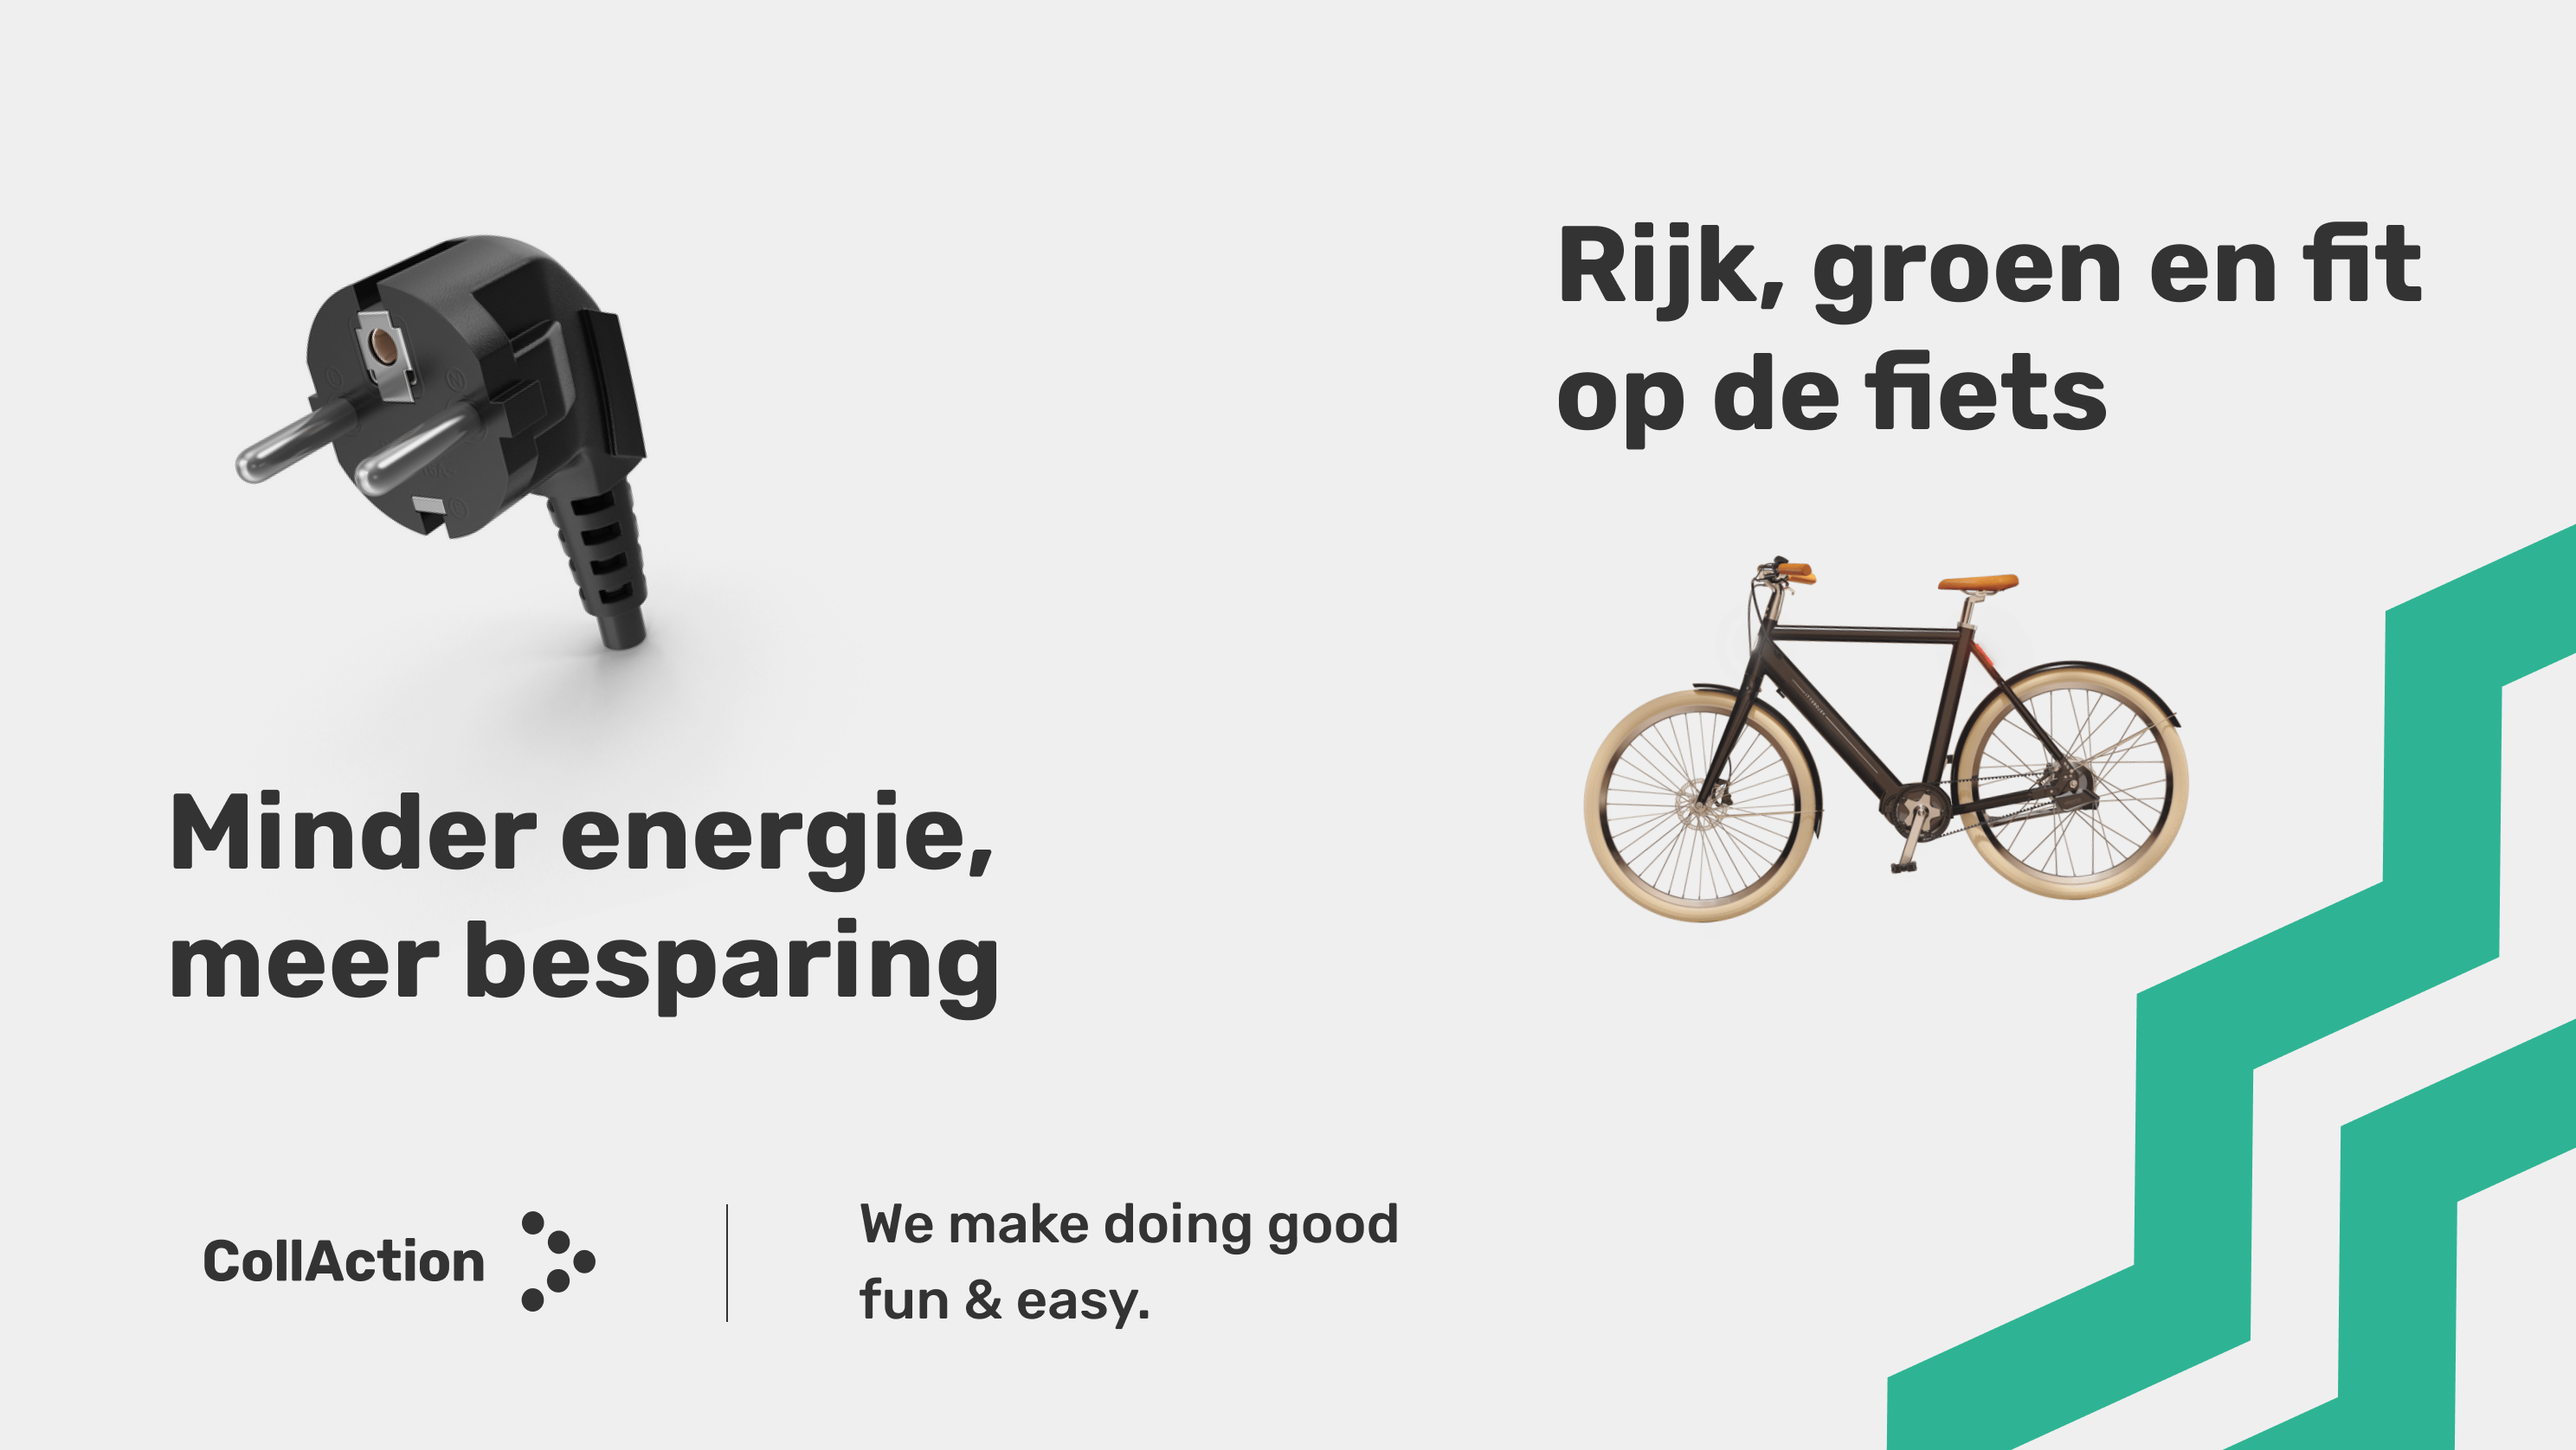
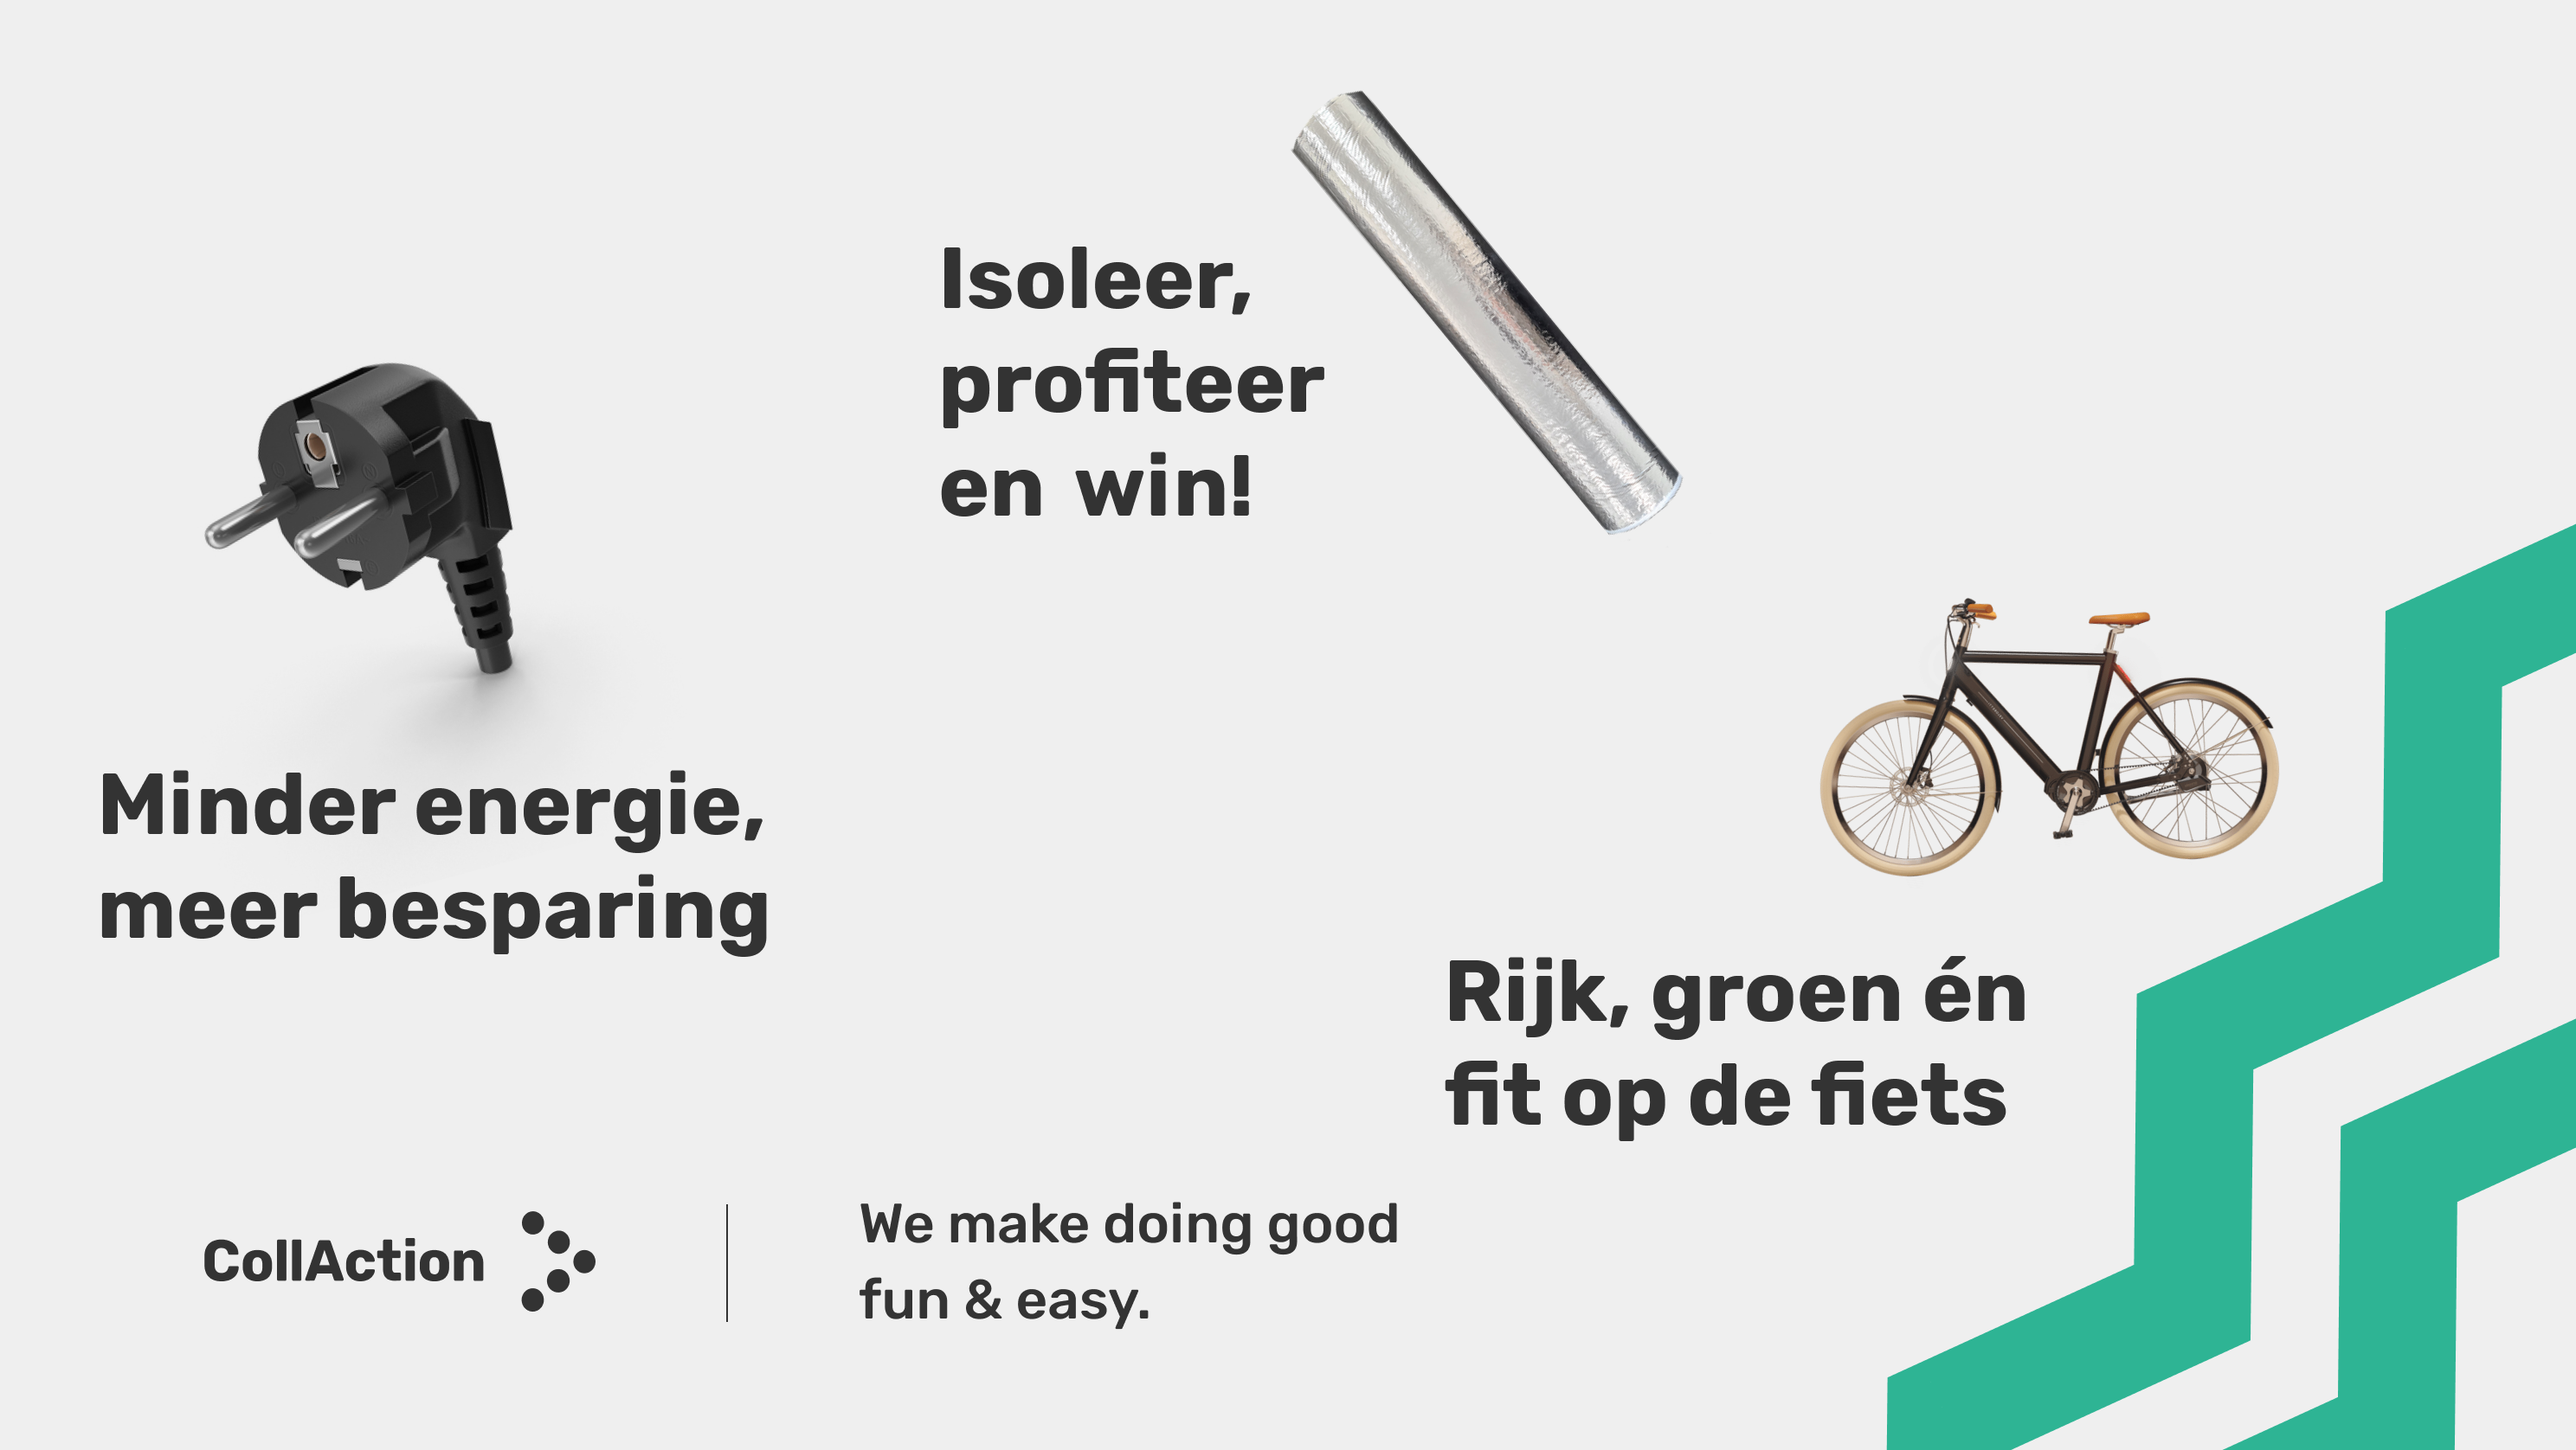
changes Tom westland

diff --git a/src/pages/westland/index.tsx b/src/pages/westland/index.tsx
@@ -5,6 +5,7 @@ import InfoCard from 'src/components/InfoCard';
 import AppLinkApple from 'src/components/AppLinkApple';
 import AppLinkGoogle from 'src/components/AppLinkGoogle';
 
+import Winactie from 'public/westland_winactie.png';
 import TomTomImg from 'public/actions/tomtom.png';
 import WestlandBanner from 'public/WestlandGroenDoen2.png';
 import WestlandBanner2 from 'public/westland.png';
@@ -49,6 +50,19 @@ export default function WestlandIndexPage() {
           />
         </div>
 
+        <div className="relative block w-full md:w-11/12 lg:w-208 mx-auto mt-8">
+          <InfoCard
+            isSecondaryBg
+            title="Download de app"
+            body="Samen staan we sterk! Moedig je buren aan en download de app of schrijf je in via de 'Ik doe mee' knop"
+          >
+            <div className="flex justify-center mb-6">
+              <AppLinkApple className="mr-4 sm:mr-5" />
+              <AppLinkGoogle />
+            </div>
+          </InfoCard>
+        </div>
+
         {/* <div className="mx-auto w-full max-w-350 sm:max-w-400 lg:max-w-500 mt-10 md:mt-11">
           <h4 className="text-primary-400 mb-7">Doe mee</h4>
           <p className="mb-6">
@@ -61,15 +75,19 @@ export default function WestlandIndexPage() {
           </p>
         </div> */}
 
-        <div className="mx-auto w-full max-w-350 sm:max-w-400 lg:max-w-500 mt-10 md:mt-11">
-          <h4 className="text-primary-400 mb-7">Doe mee</h4>
+        <div className="mx-auto w-full max-w-350 sm:max-w-400 lg:max-w-500 mt-10 md:mt-8">
+          <h4 className="text-primary-400 mb-2">Doe mee</h4>
           <p className="mb-6">
             Samen werken we aan een groener Westland. Met verschillende acties
             kun je het milieu besparen, en tegelijkertijd je portemonnee. In
-            deze eerste twee acties kun je
-            <strong> energie besparen in en rond je huis</strong> en kun je{' '}
+            deze eerste drie acties kun je
+            <strong> energie besparen in en rond je huis</strong>, kun je{' '}
             <strong>
               uitstoot verminderen door de fiets te nemen in plaats van de auto
+            </strong>{' '}
+            en kun je{' '}
+            <strong>
+              zorgen dat je huis goed geïsoleerd is nu het kouder wordt
             </strong>
             . Wij geven je <strong>slimme, gemakkelijk inzetbare tips </strong>
             en jij voert ze, via onze app óf via onze website uit. Doe precies
@@ -95,19 +113,20 @@ export default function WestlandIndexPage() {
           </p>
         </div>
 
-        <InfoCard
-          isSecondaryBg
-          title="Download de app"
-          body="Samen staan we sterk! Moedig je buren aan en download de app of schrijf je in via de 'Ik doe mee' knop"
-        >
-          <div className="flex justify-center mb-6">
-            <AppLinkApple className="mr-4 sm:mr-5" />
-            <AppLinkGoogle />
-          </div>
-        </InfoCard>
+        <div className="relative block w-full md:w-11/12 lsm:max-w-600 lg:max-w-600 mx-auto mt-6 mb-6">
+          <Image
+            priority
+            src={Winactie}
+            alt="uilenstede banner"
+            className="rounded-1"
+            layout="responsive"
+            sizes="(max-width: 768px) 90vw, 830px"
+            placeholder="blur"
+          />
+        </div>
 
         <div className="mx-auto w-full max-w-350 sm:max-w-400 lg:max-w-500 mt-10 md:mt-10">
-          <h4 className="text-primary-400 mb-7">
+          <h4 className="text-primary-400 mb-2">
             Goed voor het milieu én je portemonnee
           </h4>
           <p className="mb-6">
@@ -122,7 +141,7 @@ export default function WestlandIndexPage() {
           </p>
         </div>
         <div className="mx-auto w-full max-w-350 sm:max-w-400 lg:max-w-500 mt-10 md:mt-10">
-          <h4 className="text-primary-400 mb-7">Jouw actie, jouw regels</h4>
+          <h4 className="text-primary-400 mb-2">Jouw actie, jouw regels</h4>
           <p className="mb-9 md:mb-2">
             Hoeveel aandacht je eraan besteedt bepaal je helemaal zelf! Hoe meer
             opdrachten je uitvoert, hoe duurzamer/energiezuiniger jouw huis
@@ -149,11 +168,26 @@ export default function WestlandIndexPage() {
         </div>
 
         <div className="mx-auto w-full max-w-350 sm:max-w-400 lg:max-w-500">
-          <h4 className="text-primary-400 mb-7">Doe mee en win</h4>
-          <p className="mb-9 md:mb-2">
-            Naast de "Ik doe mee" actie kun je op 2 manieren betrokken raken
-            door deze winacties! Win led-lampen of tuinverlichting op
-            zonne-energie!
+          <h4 className="text-primary-400 mb-2">Doe mee en win</h4>
+          <p className="mb-9 md:mb-4">
+            Naast de "Ik doe mee" knop en de app, kun je foto's maken van je
+            groene tuin en hieronder opsturen!
+          </p>
+
+          <p className="mb-6">
+            Samen staan we sterk! Moedig je buren aan en schrijf je meteen in
+            via de "Ik doe mee" knop! Heb je nog vragen? Stel ze gerust via:{' '}
+            {
+              <a
+                className="text-collaction"
+                href="mailto:tom@collaction.org"
+                target="_blank"
+                rel="noreferrer"
+              >
+                tom@collaction.org
+              </a>
+            }
+            .
           </p>
         </div>
 
@@ -167,14 +201,14 @@ export default function WestlandIndexPage() {
               submitPhotoName: 'Deel je foto',
               submitPhotoUrl: 'mailto:westland@collaction.org',
             },
-            {
-              title: 'Doe mee in onze Whatsapp-groep',
-              image: '/whatsapp.png',
-              content: `Doe mee in de Whatsapp-groep en deel via ons jouw tips en resultaten. In de groepsbeschrijving vertellen we je meer over hoe je kunt deelnemen!`,
-              submitPhotoName: 'Word onderdeel',
-              submitPhotoUrl:
-                'https://chat.whatsapp.com/JqmtLofcRNPFwlglvCaaKf',
-            },
+            // {
+            //   title: 'Doe mee in onze Whatsapp-groep',
+            //   image: '/whatsapp.png',
+            //   content: `Doe mee in de Whatsapp-groep en deel via ons jouw tips en resultaten. In de groepsbeschrijving vertellen we je meer over hoe je kunt deelnemen!`,
+            //   submitPhotoName: 'Word onderdeel',
+            //   submitPhotoUrl:
+            //     'https://chat.whatsapp.com/JqmtLofcRNPFwlglvCaaKf',
+            // },
           ].map(details => (
             <WestlandCard key={details.title} {...details} />
           ))}
@@ -262,6 +296,16 @@ export default function WestlandIndexPage() {
         </div>
       </section>
 
+      <InfoCard
+        isSecondaryBg
+        title="Download de app"
+        body="Samen staan we sterk! Moedig je buren aan en download de app of schrijf je in via de 'Ik doe mee' knop"
+      >
+        <div className="flex justify-center mb-6">
+          <AppLinkApple className="mr-4 sm:mr-5" />
+          <AppLinkGoogle />
+        </div>
+      </InfoCard>
       <div className="relative block w-full md:w-11/12 lg:w-208 mx-auto">
         <Image
           priority
